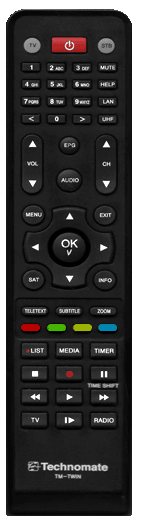
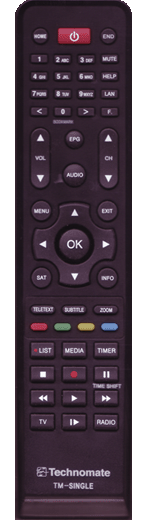
1. tmsingle webinterface fix.     modified:   tmsingle.html     modified:   tmsingle.jpg     modified:   tmsingle.png

diff --git a/meta-openpli/recipes-openpli/e2openplugins/enigma2-plugin-extensions-openwebif/tmsingle.html b/meta-openpli/recipes-openpli/e2openplugins/enigma2-plugin-extensions-openwebif/tmsingle.html
@@ -1,93 +1,88 @@
 <img border='0' src='/images/remotes/tmsingle.png' usemap='#map' >
 <map name="map">
-	<area shape="rect" coords="98,62,118,72" id="113" alt="mute" onclick="pressMenuRemote('113');">
-	<area shape="rect" coords="105,28,15" id ="116" alt="Power" onclick="pressMenuRemote('116');">
-	<area shape="rect" coords="33,53,15" id ="388" alt="text" onclick="pressMenuRemote('388');">
-	<area shape="rect" coords="58,53,15" id ="370" alt="subtitle" onclick="pressMenuRemote('370');">
-	<area shape="rect" coords="82,53,15" id ="102" alt="home" onclick="pressMenuRemote('102');">
-	<area shape="rect" coords="105,53,15" id ="107" alt="end" onclick="pressMenuRemote('107');">
+	<area shape="rect" coords="100,54,117,63" id="113" alt="mute" onclick="pressMenuRemote('113');">
+	<area shape="rect" coords="57,26,89,43" id ="116" alt="Power" onclick="pressMenuRemote('116');">
+	<area shape="rect" coords="39,36,15" id ="102" alt="home" onclick="pressMenuRemote('102');">
+	<area shape="rect" coords="107,37,15" id ="107" alt="end" onclick="pressMenuRemote('107');">
 
-	<area shape="rect" coords="20,62,40,72" id ="2" alt="1" onclick="pressMenuRemote('2');">
-	<area shape="rect" coords="46,62,66,72" id ="3" alt="2" onclick="pressMenuRemote('3');">
-	<area shape="rect" coords="72,62,92,72" id ="4" alt="3" onclick="pressMenuRemote('4');">
-	<area shape="rect" coords="20,78,40,88" id ="5" alt="4" onclick="pressMenuRemote('5');">
-	<area shape="rect" coords="46,78,66,88" id ="6" alt="5" onclick="pressMenuRemote('6');">
-	<area shape="rect" coords="72,78,92,88" id ="7" alt="6" onclick="pressMenuRemote('7');">
-	<area shape="rect" coords="20,96,40,106" id ="8" alt="7" onclick="pressMenuRemote('8');">
-	<area shape="rect" coords="46,96,66,106" id ="9" alt="8" onclick="pressMenuRemote('9');">
-	<area shape="rect" coords="72,62,92,106" id ="10" alt="9" onclick="pressMenuRemote('10');">
-	<area shape="rect" coords="46,112,66,125" id ="11" alt="0" onclick="pressMenuRemote('11');">
+	<area shape="rect" coords="30,54,48,63" id ="2" alt="1" onclick="pressMenuRemote('2');">
+	<area shape="rect" coords="53,54,70,63" id ="3" alt="2" onclick="pressMenuRemote('3');">
+	<area shape="rect" coords="77,54,92,72" id ="4" alt="3" onclick="pressMenuRemote('4');">
+	<area shape="rect" coords="30,71,48,82" id ="5" alt="4" onclick="pressMenuRemote('5');">
+	<area shape="rect" coords="53,72,71,81" id ="6" alt="5" onclick="pressMenuRemote('6');">
+	<area shape="rect" coords="77,71,95,81" id ="7" alt="6" onclick="pressMenuRemote('7');">
+	<area shape="rect" coords="30,88,48,98" id ="8" alt="7" onclick="pressMenuRemote('8');">
+	<area shape="rect" coords="54,89,71,98" id ="9" alt="8" onclick="pressMenuRemote('9');">
+	<area shape="rect" coords="77,89,94,98" id ="10" alt="9" onclick="pressMenuRemote('10');">
+	<area shape="rect" coords="54,106,71,117" id ="11" alt="0" onclick="pressMenuRemote('11');">
 
 	<!-- Added Key -->
-	<area shape="rect" coords="96,95,118,107" id="59" alt="Lan" onclick="pressMenuRemote(59);">
-	<area shape="circle" coords="104,214,18" id ="174" alt="exit" onclick="pressMenuRemote('174');">
+	<area shape="rect" coords="100,87,117,99" id="59" alt="Lan" onclick="pressMenuRemote(59);">
+	<area shape="circle" coords="107,201,18" id ="174" alt="exit" onclick="pressMenuRemote('174');">
 
-	<area shape="rect" coords="94,134,117,154" id ="402" alt="channelup" onclick="pressMenuRemote('402');">
-	<area shape="rect" coords="94,174,117,194" id ="403" alt="channeldown" onclick="pressMenuRemote('403');">
+	<area shape="rect" coords="98,127,118,148" id ="402" alt="channelup" onclick="pressMenuRemote('402');">
+	<area shape="rect" coords="98,165,117,190" id ="403" alt="channeldown" onclick="pressMenuRemote('403');">
 
-	<area shape="rect" coords="20,134,40,154" id ="115" alt="volume up" onclick="pressMenuRemote('115');">
-	<area shape="rect" coords="20,174,40,194" id ="114" alt="volume down" onclick="pressMenuRemote('114');">
+	<area shape="rect" coords="30,127,49,148" id ="115" alt="volume up" onclick="pressMenuRemote('115');">
+	<area shape="rect" coords="30,165,49,148" id ="114" alt="volume down" onclick="pressMenuRemote('114');">
 
-	<area shape="rect" coords="20,112,40,125" id ="412" alt="previous" onclick="pressMenuRemote('412');">
-	<area shape="rect" coords="72,112,92,125" id ="407" alt="next" onclick="pressMenuRemote('407');">
+	<area shape="rect" coords="32,230,54,260" id ="412" alt="previous" onclick="pressMenuRemote('412');">
+	<area shape="rect" coords="95,230,113,260" id ="407" alt="next" onclick="pressMenuRemote('407');">
 
-	<area shape="rect" coords="20,323,41,332" id ="398" alt="red" onclick="pressMenuRemote('398');">
-	<area shape="rect" coords="45,323,66,332" id ="399" alt="green" onclick="pressMenuRemote('399');">
-	<area shape="rect" coords="70,323,91,332" id ="400" alt="yellow" onclick="pressMenuRemote('400');">
-	<area shape="rect" coords="95,323,116,332" id ="401" alt="blue" onclick="pressMenuRemote('401');">
+	<area shape="rect" coords="30,321,46,331" id ="398" alt="red" onclick="pressMenuRemote('398');">
+	<area shape="rect" coords="54,321,70,331" id ="399" alt="green" onclick="pressMenuRemote('399');">
+	<area shape="rect" coords="77,321,95,331" id ="400" alt="yellow" onclick="pressMenuRemote('400');">
+	<area shape="rect" coords="100,321,118,331" id ="401" alt="blue" onclick="pressMenuRemote('401');">
 
-	<area shape="circle" coords="69,145,15" id="365" alt="EPGPressed" onclick="pressMenuRemote(365);">
-	<area shape="circle" coords="33,280,20" id="381" alt="openSatellites" onclick="pressMenuRemote(381);">
+	<area shape="circle" coords="74,139,20" id="365" alt="EPGPressed" onclick="pressMenuRemote(365);">
+	<area shape="circle" coords="41,277,20" id="381" alt="openSatellites" onclick="pressMenuRemote(381);">
 
-	<area shape="rect" coords="98,342,118,355" id="362" alt="openTimerList" onclick="pressMenuRemote(362);">
-	<area shape="rect" coords="56,342,81,355" id="226" alt="showMediaPlayer" onclick="pressMenuRemote(226);">
-	<area shape="rect" coords="20,342,48,355" id="393" alt="showMovies" onclick="pressMenuRemote(393);">
-	<area shape="rect" coords="98,365,118,379" id="164" alt="timeshiftStart" onclick="pressMenuRemote(164);">
-	<area shape="rect" coords="57,365,83,379" id="167" alt="instantRecord" onclick="pressMenuRemote(167);">
-	<area shape="rect" coords="21,365,47,379" id="128" alt="timeshiftStop" onclick="pressMenuRemote(164);">
+	<area shape="rect" coords="92,342,118,359" id="362" alt="openTimerList" onclick="pressMenuRemote(362);">
+	<area shape="rect" coords="61,342,86,359" id="226" alt="showMediaPlayer" onclick="pressMenuRemote(226);">
+	<area shape="rect" coords="29,342,54,359" id="393" alt="showMovies" onclick="pressMenuRemote(393);">
+	<area shape="rect" coords="93,364,118,382" id="164" alt="timeshiftStart" onclick="pressMenuRemote(164);">
+	<area shape="rect" coords="61,366,86,382" id="167" alt="instantRecord" onclick="pressMenuRemote(167);">
+<!--	<area shape="rect" coords="30,365,54,382" id="128" alt="timeshiftStop" onclick="pressMenuRemote(164);">-->
 
 
 	<!-- Fastforward , rewind -->
-	<area shape="rect" coords="98,389,118,402" id="208" alt="seekFwd" onclick="pressMenuRemote(208);">
-	<area shape="rect" coords="57,389,83,402" id="207" alt="playpauseService" onclick="pressMenuRemote(207);">
-	<area shape="rect" coords="21,389,47,402" id="168" alt="seekBack" onclick="pressMenuRemote(168);">
+	<area shape="rect" coords="84,389,118,405" id="208" alt="seekFwd" onclick="pressMenuRemote(208);">
+	<area shape="rect" coords="60,389,86,405" id="207" alt="playpauseService" onclick="pressMenuRemote(207);">
+	<area shape="rect" coords="29,389,52,405" id="168" alt="seekBack" onclick="pressMenuRemote(168);">
 
 	<!-- Key Radio, and Tv -->
 	<area shape="rect" coords="98,412,118,427" id="385" alt="keyRadio" onclick="pressMenuRemote(385);">
-	<area shape="rect" coords="21,412,83,427" id="377" alt="showTv" onclick="pressMenuRemote(377);">
+	<area shape="rect" coords="29,413,54,430" id="377" alt="showTv" onclick="pressMenuRemote(377);">
 
 	<!-- Zoom , subtitle, teletext -->
-	<area shape="rect" coords="89,306,116,315" id="372" alt="ZoomInOut" onclick="pressMenuRemote(372);">
-	<area shape="rect" coords="55,306,83,315" id="370" alt="subtitleSelection" onclick="pressMenuRemote(370);">
-	<area shape="rect" coords="21,306,47,315" id="388" alt="startTeletext" onclick="pressMenuRemote(388);">
+	<area shape="rect" coords="91,305,117,315" id="372" alt="ZoomInOut" onclick="pressMenuRemote(372);">
+	<area shape="rect" coords="60,305,86,315" id="370" alt="subtitleSelection" onclick="pressMenuRemote(370);">
+	<area shape="rect" coords="29,304,54,313" id="388" alt="startTeletext" onclick="pressMenuRemote(388);">
 
 	<!-- Power-->
-	<area shape="rect" coords="51,36,87,52" id="116" alt="power_down" onclick="pressMenuRemote(116);">
+	<area shape="rect" coords="57,26,90,44" id="116" alt="power_down" onclick="pressMenuRemote(116);">
 
-	<!-- Rf modulator -->
-	<area shape="rect" coords="98,114,116,124" id="63" alt="showRFmod" onclick="pressMenuRemote(63);">
+	<area shape="circle" coords="74,213,16" id ="103" alt="up" onclick="pressMenuRemote('103');">
+	<area shape="circle" coords="74,275,16" id ="108" alt="down" onclick="pressMenuRemote('108');">
+	<area shape="circle" coords="44,245,16" id ="105" alt="left" onclick="pressMenuRemote('105');">
+	<area shape="circle" coords="107,244,16" id ="106" alt="right" onclick="pressMenuRemote('106');">
 
-	<area shape="circle" coords="70,213,15" id ="103" alt="up" onclick="pressMenuRemote('103');">
-	<area shape="circle" coords="70,283,15" id ="108" alt="down" onclick="pressMenuRemote('108');">
-	<area shape="circle" coords="35,248,15" id ="105" alt="left" onclick="pressMenuRemote('105');">
-	<area shape="circle" coords="105,248,15" id ="106" alt="right" onclick="pressMenuRemote('106');">
+	<area shape="circle" coords="73,244,20" id ="352" alt="OK" onclick="pressMenuRemote('352');">
+	<area shape="circle" coords="73,174,18" id ="392" alt="audio" onclick="pressMenuRemote('392');">
 
-	<area shape="circle" coords="70,248,20" id ="352" alt="OK" onclick="pressMenuRemote('352');">
-	<area shape="circle" coords="69,180,15" id ="392" alt="audio" onclick="pressMenuRemote('392');">
+	<area shape="circle" coords="40,209,18" id ="139" alt="menu" onclick="pressMenuRemote('139');">
+	<area shape="rect" coords="61,366,85,382" id ="167" alt="record" onclick="pressMenuRemote('167');">
+	<area shape="rect" coords="29,342,53,359" id ="393" alt="videoaltlast" onclick="pressMenuRemote('393');">
 
-	<area shape="circle" coords="32,214,18" id ="139" alt="menu" onclick="pressMenuRemote('139');">
-	<area shape="rect" coords="55,342,82,358" id ="167" alt="record" onclick="pressMenuRemote('167');">
-	<area shape="rect" coords="20,342,46,357" id ="393" alt="videoaltlast" onclick="pressMenuRemote('393');">
+	<area shape="rect" coords="101,71,118,80" id ="138" alt="help" onclick="pressMenuRemote('138');">
 
-	<area shape="rect" coords="98,78,118,88" id ="138" alt="help" onclick="pressMenuRemote('138');">
-
-	<area shape="circle" coords="36,383,15" id ="168" alt="rewind" onclick="pressMenuRemote('168');">
-	<area shape="circle" coords="59,383,15" id ="207" alt="play" onclick="pressMenuRemote('207');">
-	<area shape="circle" coords="81,383,15" id ="119" alt="pause" onclick="pressMenuRemote('119');">
-	<area shape="circle" coords="104,383,15" id ="208" alt="forward" onclick="pressMenuRemote('208');">
-	<area shape="circle" coords="36,405,15" id ="377" alt="tv" onclick="pressMenuRemote('377');">
+	<area shape="rect" coords="29,385,54,405" id ="168" alt="rewind" onclick="pressMenuRemote('168');">
+	<area shape="rect" coords="59,388,86,406" id ="207" alt="play" onclick="pressMenuRemote('207');">
+	<area shape="rect" coords="93,366,118,383" id ="119" alt="pause" onclick="pressMenuRemote('119');">
+	<area shape="rect" coords="93,388,118,415" id ="208" alt="forward" onclick="pressMenuRemote('208');">
+	<area shape="rect" coords="29,413,54,430" id ="377" alt="tv" onclick="pressMenuRemote('377');">
 
 
-	<area shape="circle" coords="81,405,15" id ="128" alt="stop" onclick="pressMenuRemote('128');">
-	<area shape="circle" coords="104,405,15" id ="385" alt="radio" onclick="pressMenuRemote('385');">
+	<area shape="rect" coords="29,365,55,381" id ="128" alt="stop" onclick="pressMenuRemote('128');">
+	<area shape="rect" coords="92,413,117,431" id ="385" alt="radio" onclick="pressMenuRemote('385');">
 </map>
